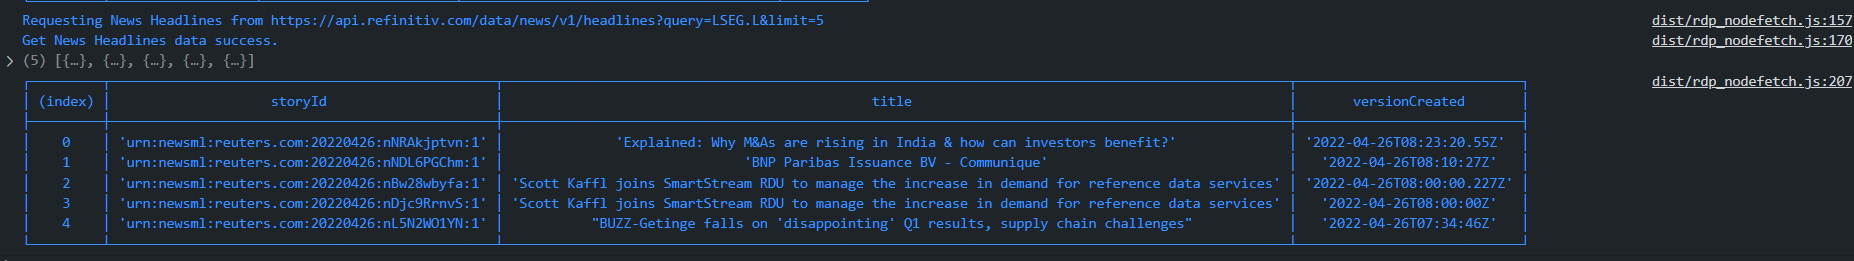
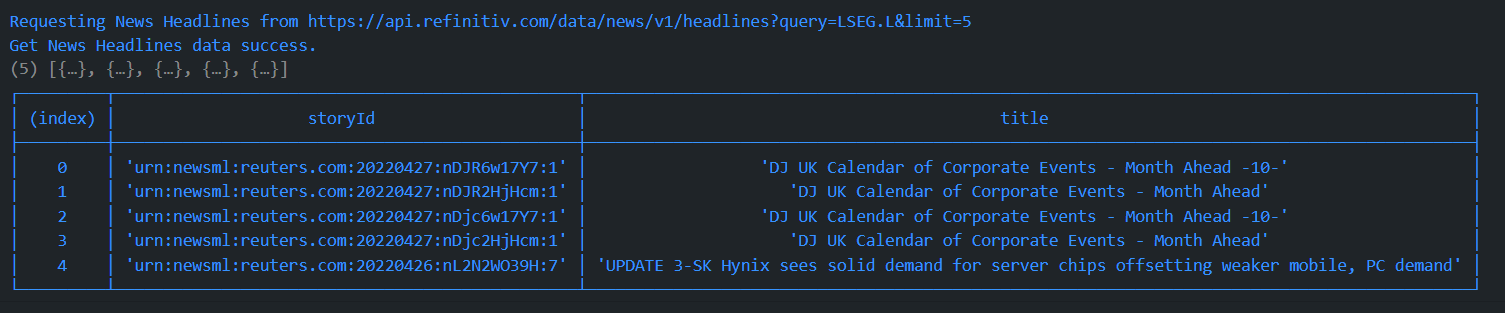
remove news version

diff --git a/src/rdp_nodefetch.ts b/src/rdp_nodefetch.ts
@@ -237,7 +237,7 @@ const displayNewsHeadlines = (newsJSON:any) => {
         newsHeadlinesTable['data'].push({
             'storyId': headline['storyId'],
             'title': newsItem['itemMeta']['title'][0]['$'],
-            'versionCreated': newsItem['itemMeta']['versionCreated']['$']
+            //'versionCreated': newsItem['itemMeta']['versionCreated']['$']
         })
     })
     console.table(newsHeadlinesTable['data'])
@@ -267,9 +267,6 @@ const displaySymbology = (symbologyJSON:any) => {
     console.log(`Input Symbol = ${symbologyData[0]['input'][0]['value']} type = ${symbologyData[0]['input'][0]['identifierType']}`)
     console.log('Converted Identifiers:')
     console.table(symbologyTable['data'])
-
-   
-    
 }
 
 // ---------------- Main Function ---------------------------------------- //

diff --git a/src/rdp_types.ts b/src/rdp_types.ts
@@ -52,7 +52,7 @@ export type RDP_NewsHeadlines_Table_Type = {
 export type RDP_NewsHeadlines_Data_Type = {
     storyId: string
     title: string
-    versionCreated: string
+    versionCreated?: string
 }
 
 // Type for RDP Symbology Table data

diff --git a/Development.md b/Development.md
@@ -447,7 +447,7 @@ main()
 ```
 ### Displaying News Headline Data
 
-Turning to display incoming news headline data in a readable-tabular format. I will begin by creating the new Type Aliases for the news headline table object named ```newsHeadlinesTable```. This object keeps the necessary output data which are ```storyId```, ```title``` (headline text), and ```versionCreated``` fields from the response JSON message.
+Turning to display incoming news headline data in a readable-tabular format. I will begin by creating the new Type Aliases for the news headline table object named ```newsHeadlinesTable```. This object keeps the necessary output data which are ```storyId```, and ```title``` (headline text) fields from the response JSON message.
 
 ```
 //rdp_types.ts
@@ -461,7 +461,6 @@ export type RDP_NewsHeadlines_Table_Type = {
 export type RDP_NewsHeadlines_Data_Type = {
     storyId: string
     title: string
-    versionCreated: string
 }
 ```
 
@@ -486,8 +485,7 @@ const displayNewsHeadlines = (newsJSON:any) => {
 
         newsHeadlinesTable['data'].push({
             'storyId': headline['storyId'],
-            'title': newsItem['itemMeta']['title'][0]['$'],
-            'versionCreated': newsItem['itemMeta']['versionCreated']['$']
+            'title': newsItem['itemMeta']['title'][0]['$']
         })
     })
     console.table(newsHeadlinesTable['data'])

diff --git a/README.md b/README.md
@@ -162,7 +162,7 @@ If you want to run the example with a Docker container manually, please follow t
 
 ## <a id="summary"></a>Summary
 
-The coming of the native Fetch API on Node.js is good news for all developers. This built-in API improves cross-platform familiarity for JavaScript/TypeScript developers, they do need to use a different approach for the frontend (web browsers) and backend (Node.js) HTTP request code. This helps simplify the project and reduce the complexity of using and managing the 3rd party HTTP Request/Fetch modules. 
+The coming of the native Fetch API on Node.js is good news for all developers. This built-in API improves cross-platform familiarity for JavaScript/TypeScript developers, they do need to use a different approach for the frontend (web browsers) and backend (Node.js) HTTP request code anymore. This helps simplify the project and reduce the complexity of managing the 3rd party HTTP Request/Fetch modules. 
 
 At the same time, the [Refinitiv Data Platform (RDP) APIs](https://developers.refinitiv.com/en/api-catalog/refinitiv-data-platform/refinitiv-data-platform-apis) provide various Refinitiv data and content for developers via easy-to-use Web-based API. The APIs are easy to integrate into any application and platform that supports the HTTP protocol and JSON message format. 
 
